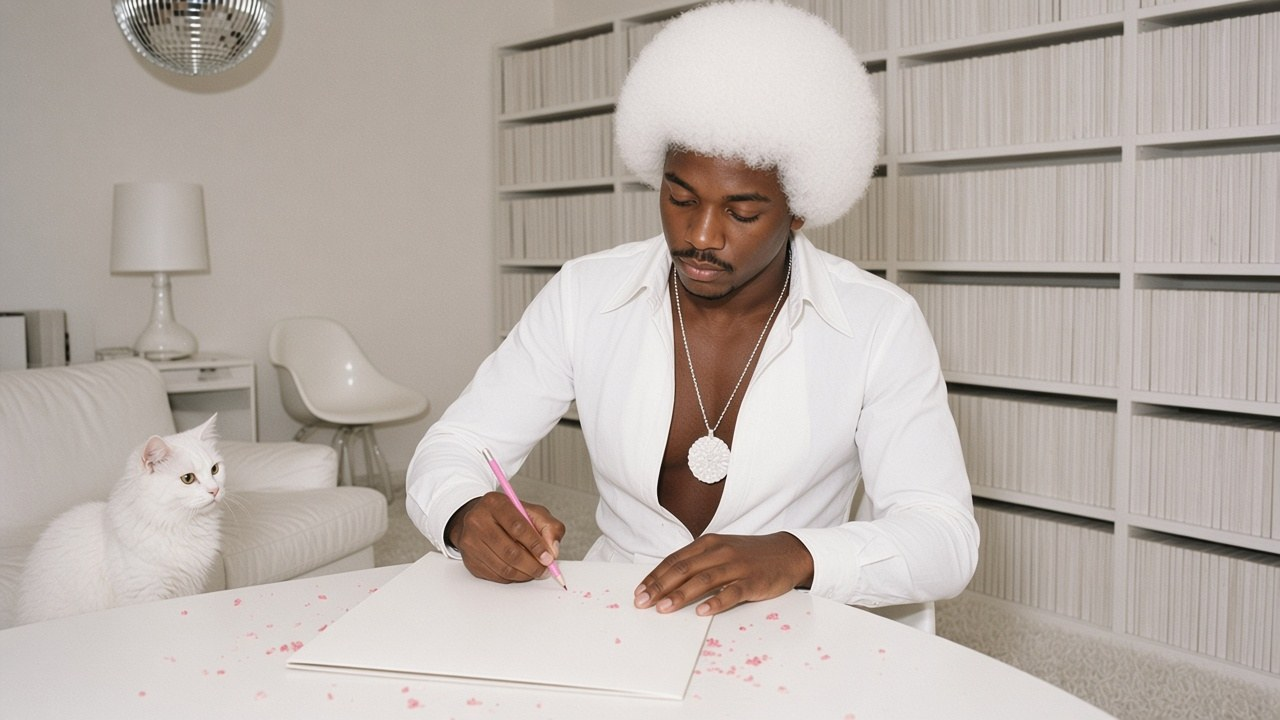
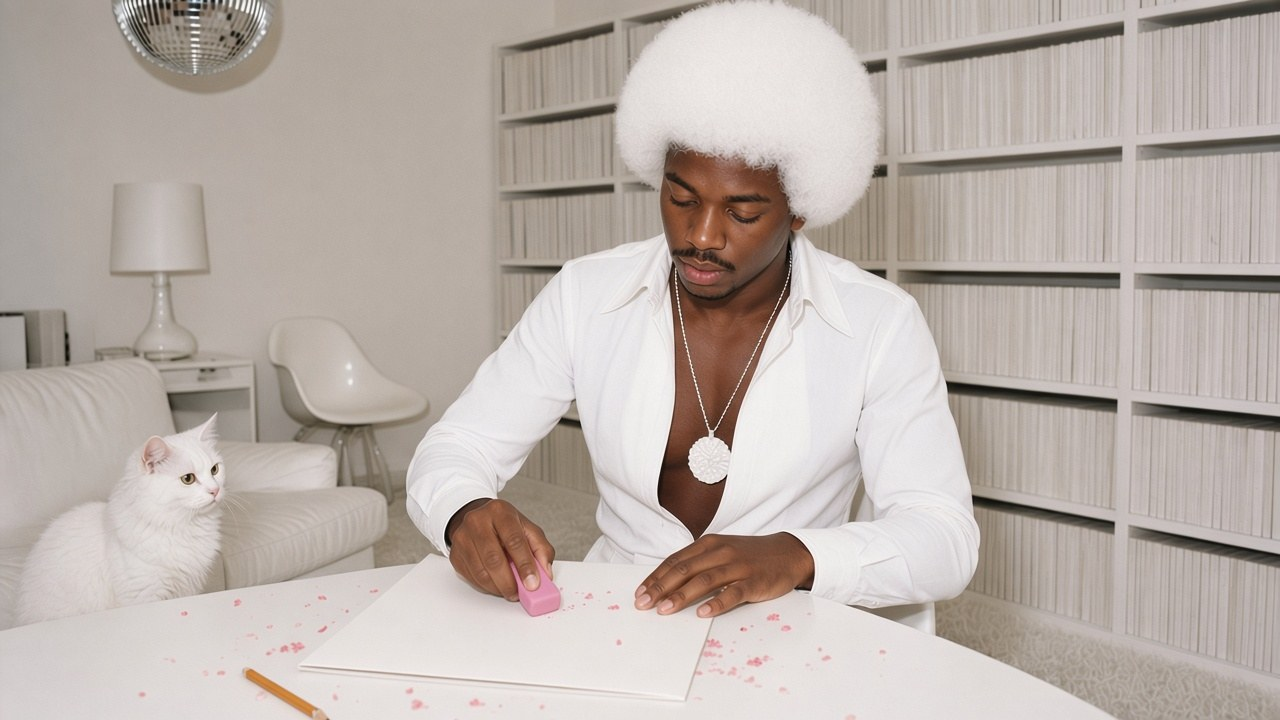
Vinyl desk whitealbum: redo wa5 — block eraser mid-rub, not pencil tip

diff --git a/preview-wy4u7thzbj5o/whitealbum/index.html b/preview-wy4u7thzbj5o/whitealbum/index.html
@@ -98,12 +98,12 @@
       <p class="a">Bleached. Twice a month at Darlene’s cousin’s salon in Upper Fudgeley. It burns a little. Beauty often does. When I walk into Vern’s, the bell doesn’t ring for me. The light does.</p>
 
       <figure class="art-pic">
-        <picture><source srcset="img/wa5.webp" type="image/webp"><img src="img/wa5.jpg" alt="Clarence sits at a white table intently rubbing a tiny smudge off a plain white album sleeve with a pink pencil eraser, eraser crumbs on the sleeve, white cat watching, shelves of white sleeves behind him" width="1280" height="720" loading="lazy"></picture>
+        <picture><source srcset="img/wa5.webp" type="image/webp"><img src="img/wa5.jpg" alt="Clarence sits at a white table intently rubbing a tiny smudge off a plain white album sleeve with a chunky pink block eraser pressed flat, eraser crumbs on the sleeve and table, white cat watching, shelves of white sleeves behind him" width="1280" height="720" loading="lazy"></picture>
         <figcaption>Daily maintenance. “Fingerprints,” he whispers. “The enemy of white.”</figcaption>
       </figure>
 
-      <p class="q">Is that a pencil eraser?</p>
-      <p class="a">Pink. Soft. For the smudges. Guests leave fingerprints. Raymond left a whole hand once. The trouble is the eraser itself: the black from the pencil gets everywhere. I keep a white eraser for the pink eraser. It’s a system.</p>
+      <p class="q">Is that a rubber?</p>
+      <p class="a">Pink. Soft. Block. For the smudges. Guests leave fingerprints. Raymond left a whole hand once. The trouble is when I sharpen the pencil afterward — the black from the graphite gets everywhere. I keep a white eraser for the pink eraser. It’s a system.</p>
 
       <figure class="art-pic">
         <picture><source srcset="img/wa2.webp" type="image/webp"><img src="img/wa2.jpg" alt="In an all-black apartment, a stylish white man in all-black early-90s clothes stands in front of floor-to-ceiling shelves of identical plain black album sleeves; a black cat sits on a black sofa beside a black turntable" width="1280" height="720" loading="lazy"></picture>
